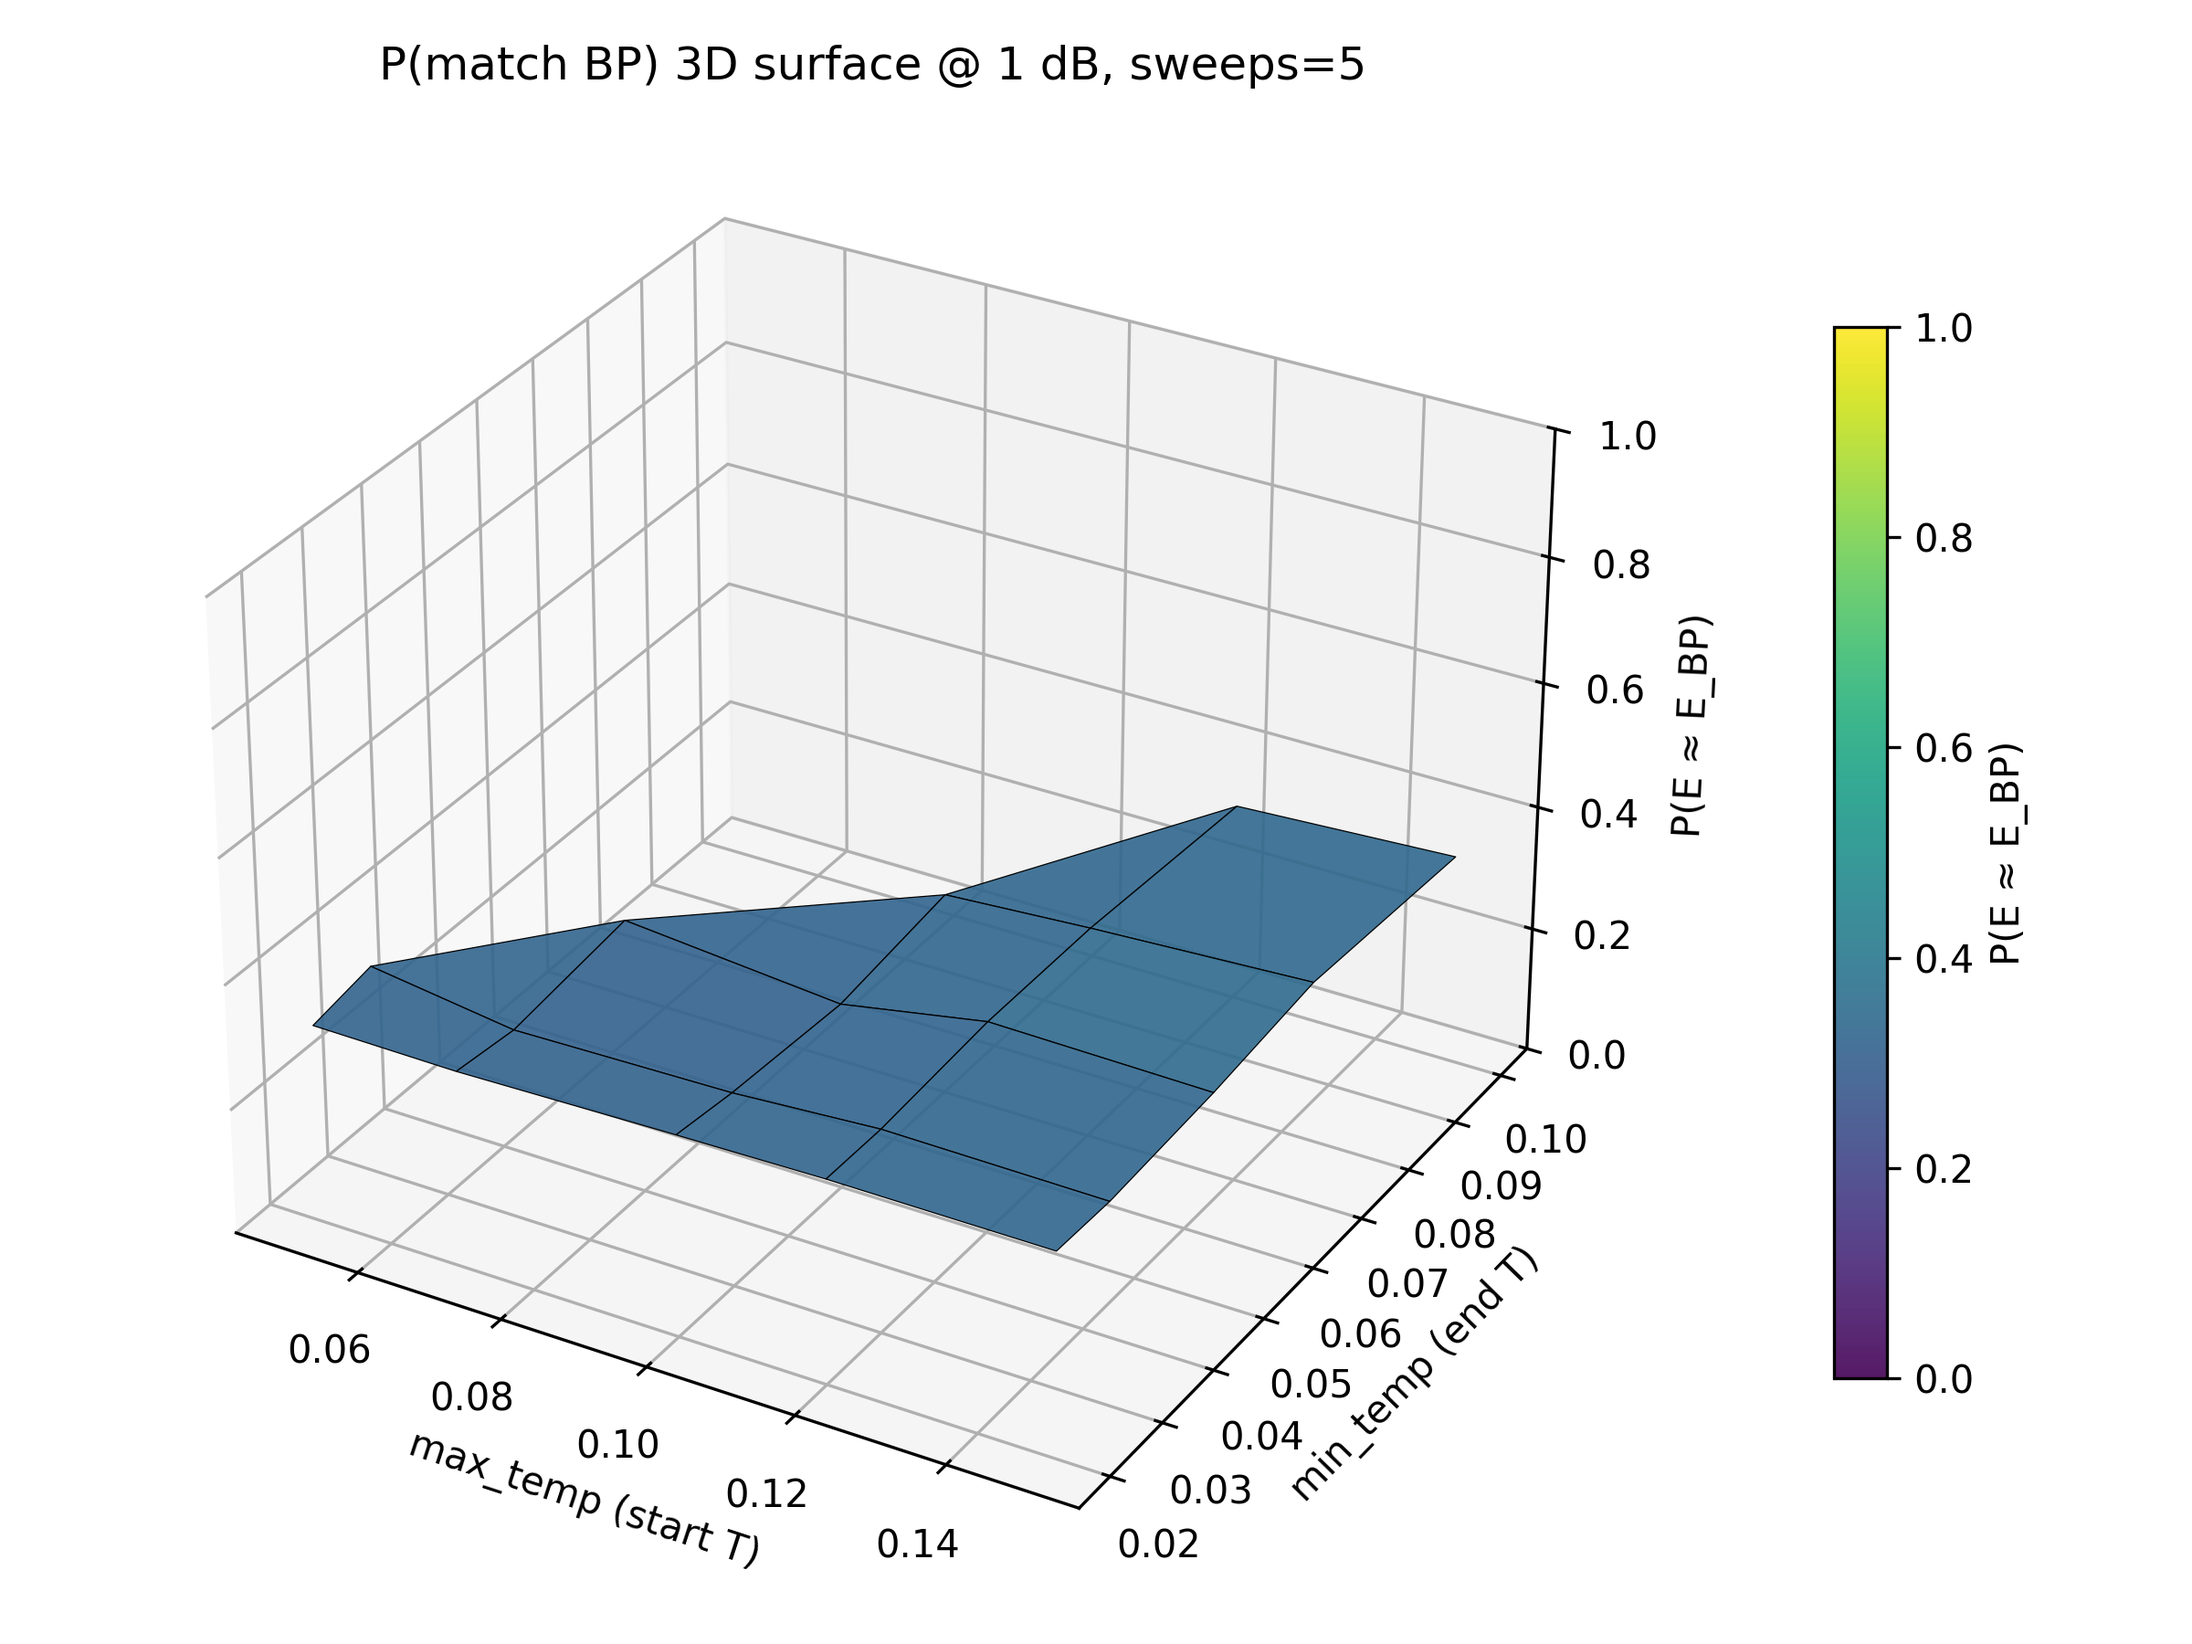
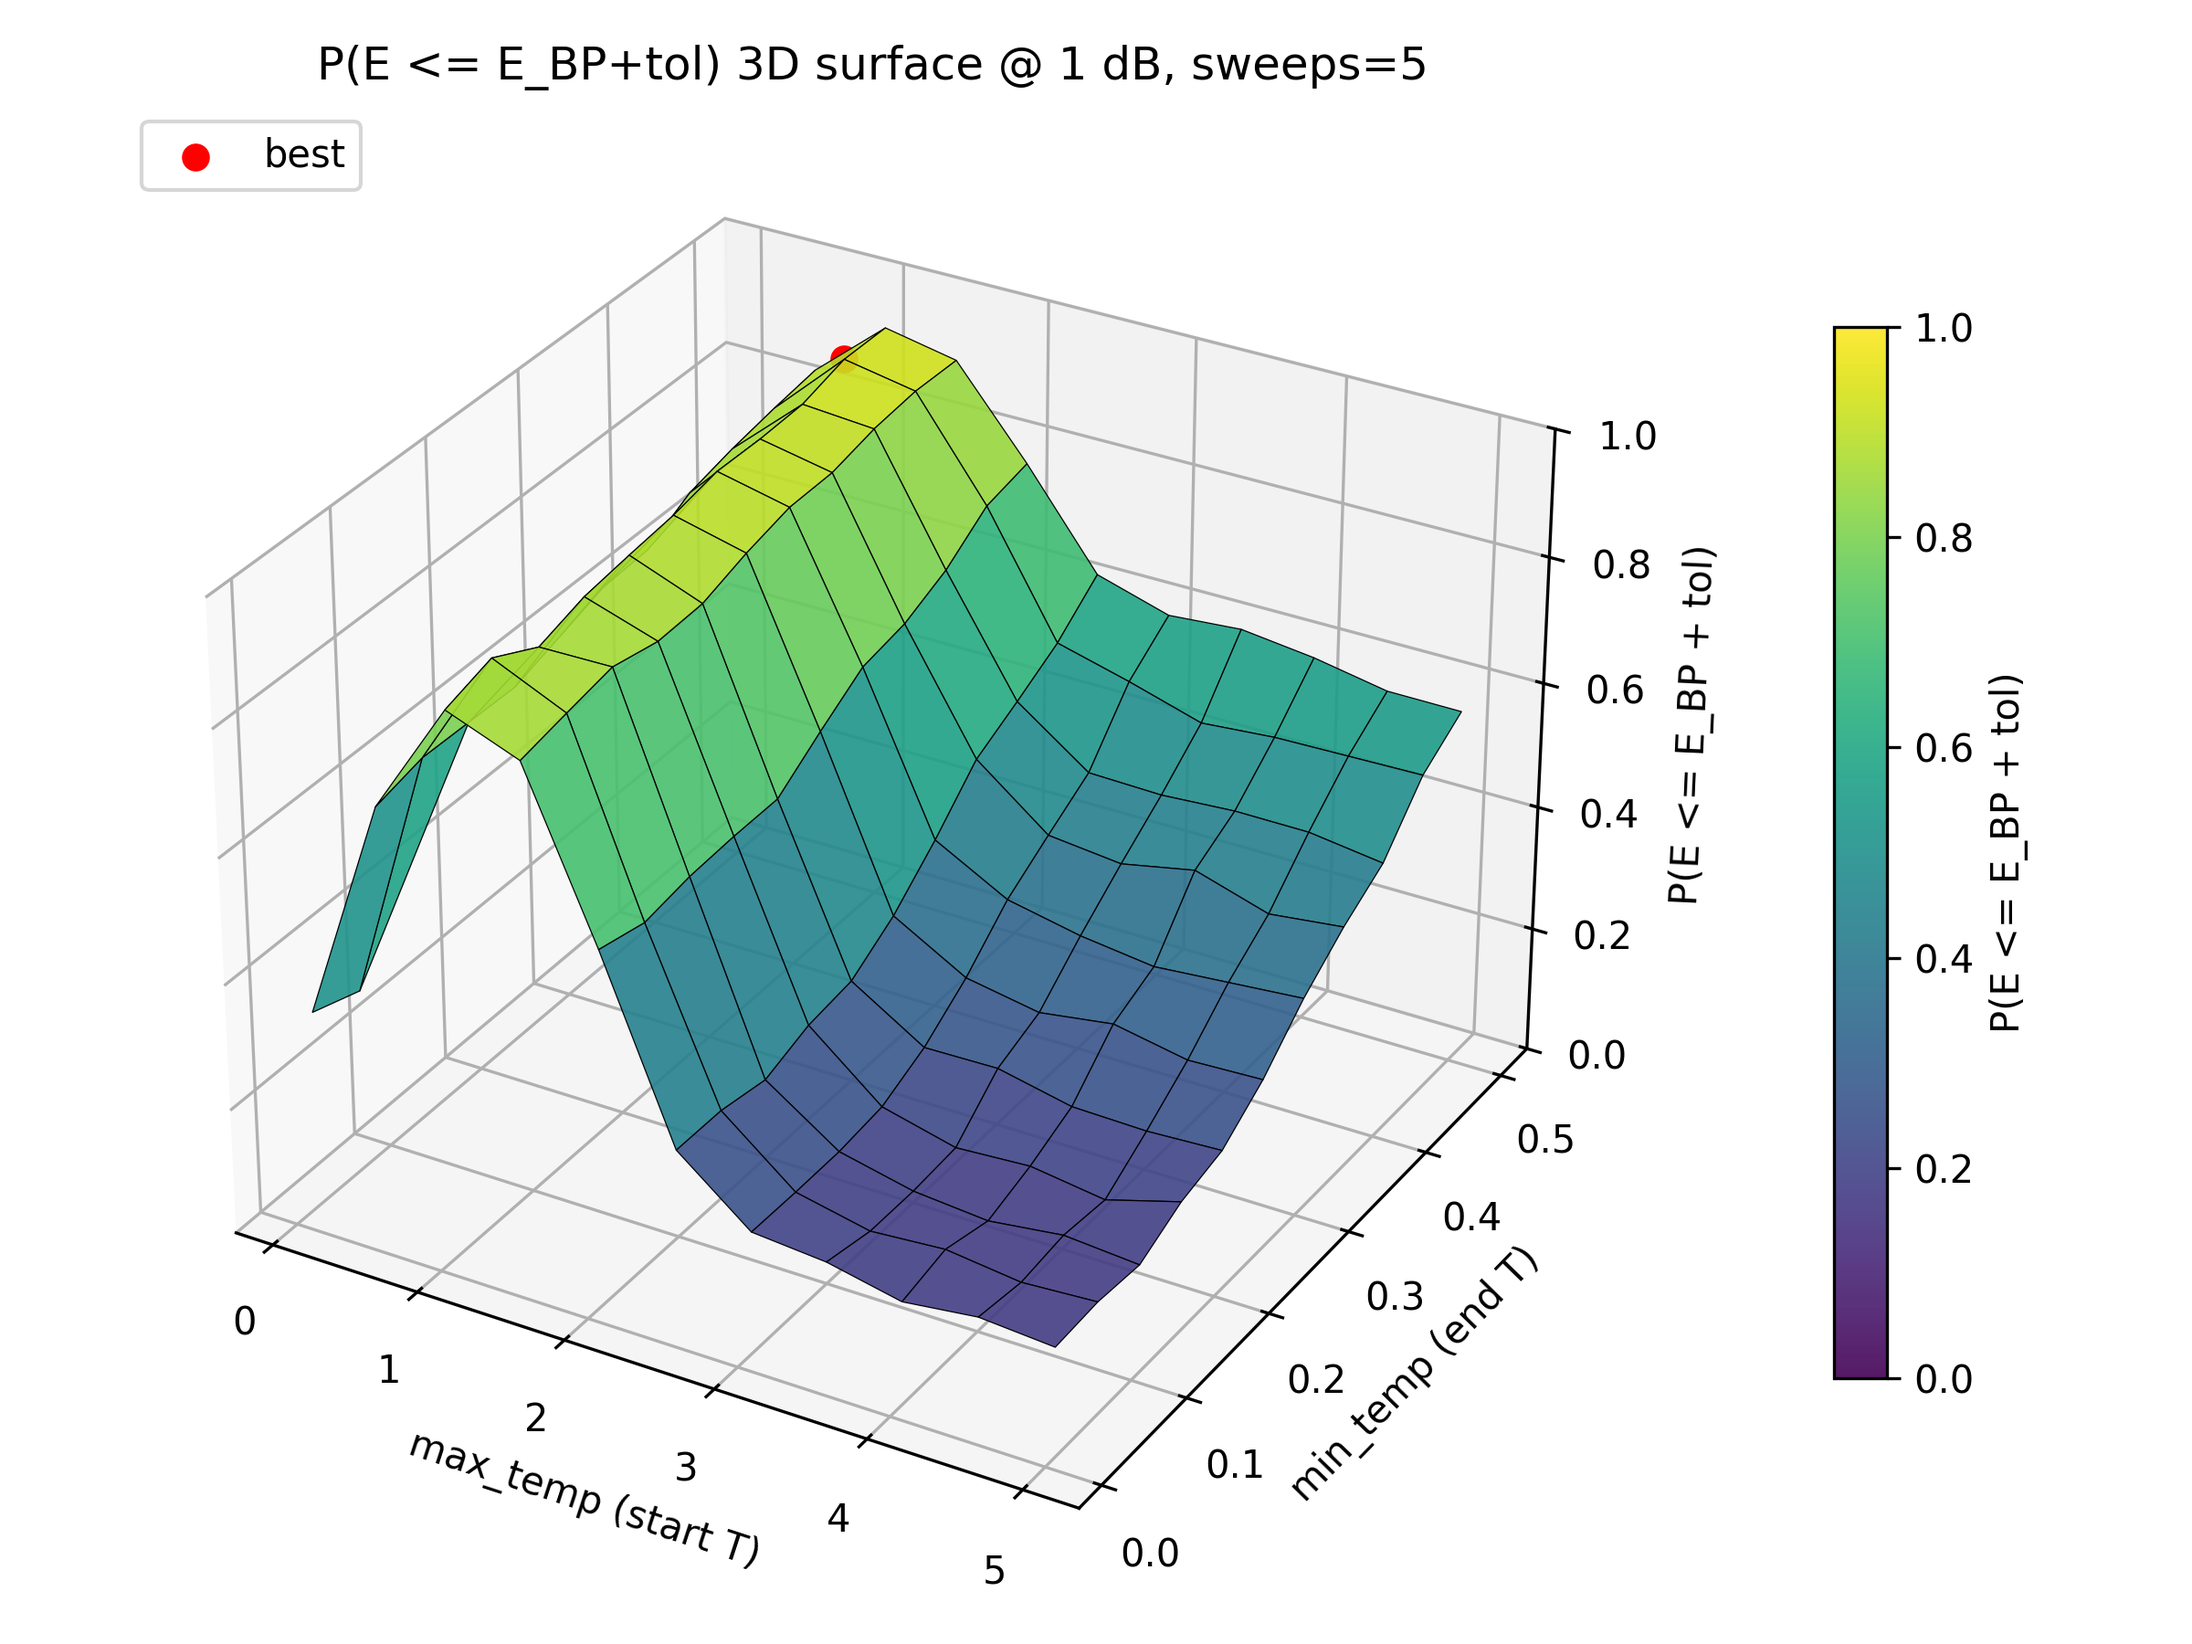
Add QBP module and update pysa

diff --git a/QBP/energy_vs_probability.py b/QBP/energy_vs_probability.py
@@ -92,11 +92,13 @@ def sa_sample_energies(
     return np.asarray(df['best_energy'], dtype=float)
 
 
-def probability_of_match_to_reference(energies, ref_energy, eps=1e-8):
+def probability_leq_reference(energies, ref_energy, tol=1e-8):
+    """Probability that energy is <= reference + tol (allows better-than-BP solutions)."""
     energies = np.asarray(energies, dtype=float)
     if energies.size == 0:
         return 0.0, 0
-    hits = int(np.sum(np.abs(energies - float(ref_energy)) <= eps))
+    thresh = float(ref_energy) + float(tol)
+    hits = int(np.sum(energies <= thresh))
     prob = float(hits / energies.size)
     return prob, hits
 
@@ -105,7 +107,7 @@ def main():
     # Parameters
     N = 420
     d_v, d_c = 2, 3
-    snr_db = 1
+    snr_list = [1, 2, 3, 4, 5]
     lambda_penalty = 2
     modulation_type = 'BPSK'
     num_reads = 2000
@@ -119,69 +121,88 @@ def main():
     os.makedirs(qbp_plots, exist_ok=True)
     H, G, k, n = generate_ldpc_code(N, d_v, d_c, seed=42)
 
-    # Fix the decoding instance once (keeps sweep comparable)
-    llr = compute_llr_once(H, G, k, modulation_type, snr_db, seed=fixed_instance_seed)
+    # 2) Grid over (min_temp, max_temp) at fixed num_sweeps for SNRs 1..5
+    # Temperature grids
+    min_grid = np.linspace(0.01, 0.50, 11)
+    max_grid = np.linspace(0.10, 5.00, 11)
+    energy_tol = 1e-8
 
-    # Build solver once and get BP reference energy under Spin-HUBO
-    solver = build_spin_hubo_solver(H, llr, lambda_penalty)
-    bp_energy = compute_bp_reference_energy(H, llr, solver, max_iters=500, damping=0.0)
+    for snr_db in snr_list:
+        # Fix the decoding instance once per SNR (reproducible across runs)
+        llr = compute_llr_once(H, G, k, modulation_type, snr_db, seed=fixed_instance_seed)
 
-    # 1) Single-run summary vs BP reference
-    energies = sa_sample_energies(
-        solver,
-        num_reads=num_reads,
-        num_sweeps=num_sweeps,
-        min_temp=min_temp,
-        max_temp=max_temp,
-        parallel_reads=parallel_reads,
-        use_pt=True,
-        num_replicas=2,
-    )
-    p_bp, hits = probability_of_match_to_reference(energies, bp_energy)
-    print(f"SA(PT-2) vs BP: hits={hits}/{energies.size} | P(E ≈ E_BP) = {p_bp:.4f} | E_BP = {bp_energy:.6f}")
+        # Build solver and BP reference energy
+        solver = build_spin_hubo_solver(H, llr, lambda_penalty)
+        bp_energy = compute_bp_reference_energy(H, llr, solver, max_iters=500, damping=0.0)
 
-    # 2) Grid over (min_temp, max_temp) at fixed num_sweeps
-    # Narrower temperature window per your note
-    min_grid = [0.02, 0.03, 0.05, 0.07, 0.10]
-    max_grid = [0.05, 0.07, 0.10, 0.12, 0.15]
-    prob_mat = np.zeros((len(min_grid), len(max_grid)), dtype=float)
+        # Quick single-run summary with default temps
+        energies = sa_sample_energies(
+            solver,
+            num_reads=num_reads,
+            num_sweeps=num_sweeps,
+            min_temp=min_temp,
+            max_temp=max_temp,
+            parallel_reads=parallel_reads,
+            use_pt=True,
+            num_replicas=2,
+        )
+        p_bp, hits = probability_leq_reference(energies, bp_energy, tol=energy_tol)
+        print(f"SNR={snr_db} | SA(PT-2) vs BP: hits={hits}/{energies.size} | P(E <= E_BP+tol) = {p_bp:.4f} | E_BP = {bp_energy:.6f} | tol={energy_tol}")
 
-    for i, tmin in enumerate(min_grid):
-        for j, tmax in enumerate(max_grid):
-            if tmax <= tmin:
-                prob_mat[i, j] = np.nan
-                continue
-            en = sa_sample_energies(
-                solver,
-                num_reads=num_reads,
-                num_sweeps=num_sweeps,
-                min_temp=float(tmin),
-                max_temp=float(tmax),
-                parallel_reads=parallel_reads,
-                use_pt=True,
-                num_replicas=2,
-            )
-            p, _ = probability_of_match_to_reference(en, bp_energy)
-            prob_mat[i, j] = p
+        prob_mat = np.zeros((len(min_grid), len(max_grid)), dtype=float)
+        for i, tmin in enumerate(min_grid):
+            for j, tmax in enumerate(max_grid):
+                if tmax <= tmin:
+                    prob_mat[i, j] = np.nan
+                    continue
+                en = sa_sample_energies(
+                    solver,
+                    num_reads=num_reads,
+                    num_sweeps=num_sweeps,
+                    min_temp=float(tmin),
+                    max_temp=float(tmax),
+                    parallel_reads=parallel_reads,
+                    use_pt=True,
+                    num_replicas=2,
+                )
+                p, _ = probability_leq_reference(en, bp_energy, tol=energy_tol)
+                prob_mat[i, j] = p
 
-    # 3D surface plot of probability vs (min_temp, max_temp)
-    from mpl_toolkits.mplot3d import Axes3D  # noqa: F401
-    fig = plt.figure(figsize=(8, 6))
-    ax = fig.add_subplot(111, projection='3d')
-    X, Y = np.meshgrid(max_grid, min_grid)
-    Z = np.ma.masked_invalid(prob_mat)
-    surf = ax.plot_surface(X, Y, Z, cmap='viridis', vmin=0.0, vmax=1.0,
-                           edgecolor='k', linewidth=0.3, antialiased=True, alpha=0.9)
-    fig.colorbar(surf, ax=ax, shrink=0.7, pad=0.1, label='P(E ≈ E_BP)')
-    ax.set_xlabel('max_temp (start T)')
-    ax.set_ylabel('min_temp (end T)')
-    ax.set_zlabel('P(E ≈ E_BP)')
-    ax.set_zlim(0.0, 1.0)
-    ax.set_title(f'P(match BP) 3D surface @ {snr_db} dB, sweeps={num_sweeps}')
-    fig.tight_layout()
-    out_curve = os.path.join(qbp_plots, f"prob_best_vs_minmax_snr{snr_db}.png")
-    fig.savefig(out_curve, dpi=300)
-    print(f"Saved 3D grid plot to {out_curve}")
+        # Find best (min_temp, max_temp) pair by probability (ignore NaNs)
+        if np.all(np.isnan(prob_mat)):
+            best_info = None
+            print(f"SNR={snr_db} | Warning: all (min,max) pairs invalid; no best temperature found.")
+        else:
+            best_flat = int(np.nanargmax(prob_mat))
+            bi, bj = np.unravel_index(best_flat, prob_mat.shape)
+            best_min = float(min_grid[bi])
+            best_max = float(max_grid[bj])
+            best_prob = float(prob_mat[bi, bj])
+            best_info = (best_min, best_max, best_prob)
+            print(f"SNR={snr_db} | Best temps: min={best_min}, max={best_max} with P(E<=E_BP+tol)={best_prob:.4f}")
+
+        # 3D surface plot of probability vs (min_temp, max_temp)
+        from mpl_toolkits.mplot3d import Axes3D  # noqa: F401
+        fig = plt.figure(figsize=(8, 6))
+        ax = fig.add_subplot(111, projection='3d')
+        X, Y = np.meshgrid(max_grid, min_grid)
+        Z = np.ma.masked_invalid(prob_mat)
+        surf = ax.plot_surface(X, Y, Z, cmap='viridis', vmin=0.0, vmax=1.0,
+                               edgecolor='k', linewidth=0.3, antialiased=True, alpha=0.9)
+        # Highlight the best point if available
+        if best_info is not None:
+            ax.scatter([best_max], [best_min], [best_prob], color='red', s=40, label='best')
+            ax.legend(loc='upper left')
+        fig.colorbar(surf, ax=ax, shrink=0.7, pad=0.1, label='P(E <= E_BP + tol)')
+        ax.set_xlabel('max_temp (start T)')
+        ax.set_ylabel('min_temp (end T)')
+        ax.set_zlabel('P(E <= E_BP + tol)')
+        ax.set_zlim(0.0, 1.0)
+        ax.set_title(f'P(E <= E_BP+tol) 3D surface @ {snr_db} dB, sweeps={num_sweeps}')
+        fig.tight_layout()
+        out_curve = os.path.join(qbp_plots, f"prob_best_vs_minmax_snr{snr_db}.png")
+        fig.savefig(out_curve, dpi=300)
+        print(f"Saved 3D grid plot to {out_curve}")
 
 
 if __name__ == "__main__":
